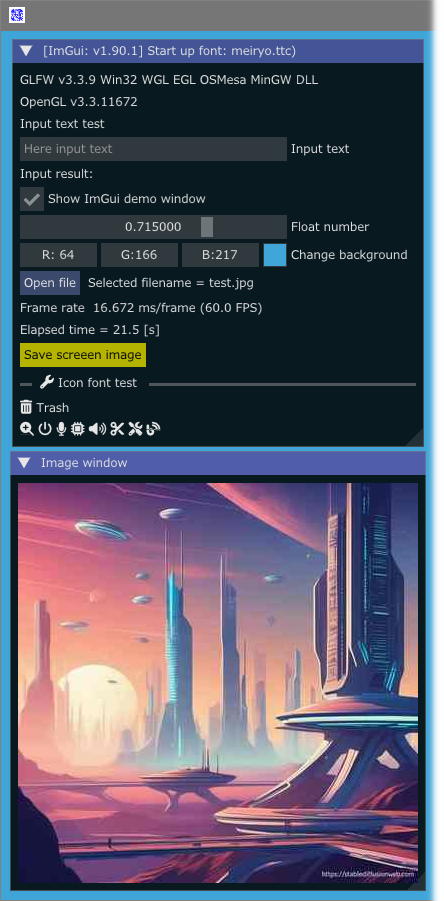
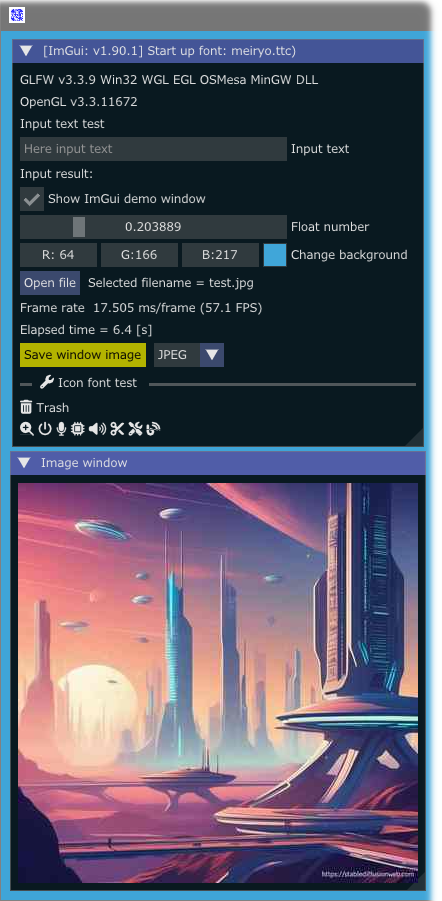
added: Combo box to select image format

diff --git a/README.md b/README.md
@@ -31,7 +31,7 @@ This repository is under construction at this time.
 1. [Luajit](https://luajit.org/) + [ImGui](https://github.com/ocornut/imgui)  
 Windows OS binaries project using [anima](https://github.com/sonoro1234/anima) project
    - Differencies from [anima](https://github.com/sonoro1234/anima) project,
-      - Added GCC/Clang compilation option in [anima/Luajit-ImGui/CMakeLists.txt](anima/Luajit-ImGui/CMakeLists.txt)
+      - Added GCC compilation option in [anima/Luajit-ImGui/CMakeLists.txt](anima/Luajit-ImGui/CMakeLists.txt)
          1. For IME (Imput method)  
             `"-DIMGUI_ENABLE_WIN32_DEFAULT_IME_FUNCTIONS"`
          1. For ImPlot  
@@ -51,8 +51,9 @@ Windows OS binaries project using [anima](https://github.com/sonoro1234/anima) p
 
 ---
 
+- 2024/02: Added: Button "Save window image" and combo box,  
+it can be saved as JPEG, PNG, TIFF, BMP file format
 - 2024/01: Added: Icon font demo
-- 2024/01: Added: Button "Save screen image", can be saved as JPEG, PNG, TIFF, BMP file format, except sdl2_opengl3 demo.
 
 
 #### Examples
